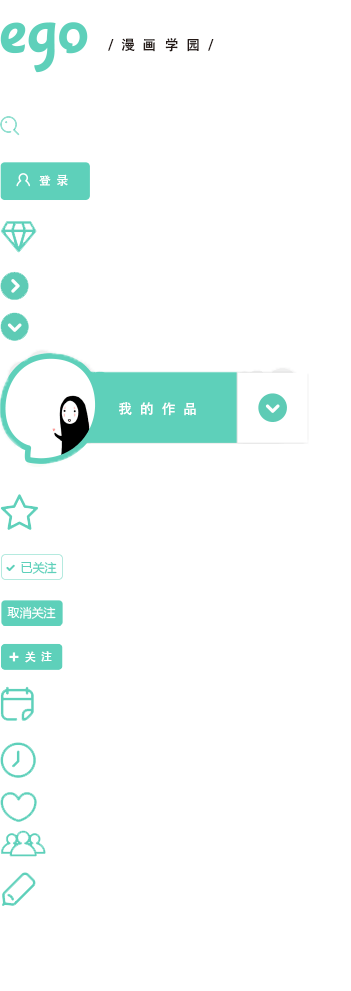
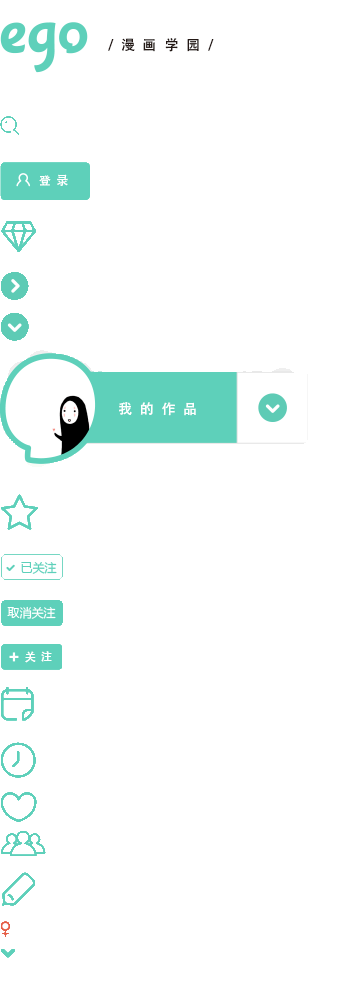
构建顶栏

diff --git a/public/page/index.js b/public/page/index.js
@@ -57,3 +57,83 @@
 
     App.Tabs=Tabs;
 }(window.App))
+
+
+/**
+ * 构建搜索框
+ */
+(function(App){
+    /**
+     * 
+     * @param {Object} container  表单节点
+     */
+    function Search(container) {
+        this.nForm=container;
+        this.nKeyword=this.nForm.getElementsByTagName('input')[0];
+        this.init();
+    }
+    //初始化
+    Search.prototype.init=function(){
+        this.nForm.addEventListener('submit',this.search.bind(this));
+    }
+
+    //搜索功能
+    Search.prototype.search=function(event){
+        var value=this.nKeyword.value;
+        if(value){
+            value.replace(/^\s|\s$/,'');
+            return true;
+        }else{
+            return false;
+        }
+    }
+
+    App.Search=Search;
+}(window.App));
+
+/**
+ * 构建登录与注册
+ */
+(function(App){
+    function Guest(){
+        this.nLogin=document.getElementById('login');
+        this.nRegister=document.getElementById('register');
+
+        this.nLogin.addEventListener('click',function(){
+            //弹出登录弹窗
+
+        }.bind(this));
+        this.nRegister.addEventListener('click',function(){
+            //弹出注册弹窗
+
+        }.bind(this));
+    }
+
+    App.Guest=Guest;
+}(window.App));
+
+
+/**
+ * 构建顶栏
+ */
+(function(App){
+    var nav={
+        init:function(options){
+            options=options||{};
+            this.loginCallback=options.login;
+            this.hdtab=new App.Tabs({
+                container:_.$("hdtabs"),
+                index:this.getTabIndex()
+            });
+            this.search=new App.Search(_.$("search"));
+            this.guest=new App.Guest();
+            //绑定登录，注册，登出事件
+            this.initLoginStatus();
+        },
+        getTabIndex:function(){},
+        initLoginStatus:function(){},
+        initUserInfo:function(data){}
+    }
+
+    App.nav=nav;
+}(window.App));

diff --git a/public/html/index.html b/public/html/index.html
@@ -17,7 +17,7 @@
             <a href="/index" class="u-logo" target="blank"><img class="logo"></a>
             
             <!-- 标签 -->
-            <div class="m-tabs">
+            <div class="m-tabs" id="hdtabs">
                 <ul class="f-cb">
                     <li class="z-active"><a href="/index">首页</a></li>
                     <li><a  href="/works">作品</a></li>
@@ -28,6 +28,36 @@
                 <!-- <div class="tabs_track">
                     <div class="tabs_thumb" style="width:68px;left:0;"></div>
                 </div> -->
+            </div>
+
+            <!-- 搜索框 -->
+            <form action="/search" id="search" method="GET">
+                <div class="u-search">
+                    <input type="text" id="keyword" name="keyword" placeholder="输入搜索内容">
+                    <button class="icon-btn" type="submit"></button>
+                </div>
+            </form>
+
+            <!-- 登录注册按钮 -->
+            <div class="m-guest" id="guest">
+                <button class="u-btn u-btn-primary u-btn-icon" id="login"><i class="icon-user"></i>登录</button>
+                <button class="u-btn u-btn-link" id="register">注册</button>
+            </div>
+
+            <!-- 用户信息 -->
+            <div class="m-user" id="userdropdown">
+                <div class="user_info">
+                    <img class="user_avatar" src="../res/images/avater.png" alt="头像">
+                    <span class="user_name" id="name"></span>
+                    <i class="sex"></i>
+                    <i class="down"></i>
+                </div>
+                <ul class="user_list">
+                    <li>个人中心</li>
+                    <li>信息</li>
+                    <li>设置</li>
+                    <li id="logout">退出账号</li>
+                </ul>
             </div>
         </div>
     </div>

diff --git a/public/common/base.css b/public/common/base.css
@@ -1,0 +1,48 @@
+/* reset */
+html,body,h1,h2,h3,h4,h5,h6,div,dl,dt,dd,ul,ol,li,p,blockquote,pre,hr,figure,table,caption,th,td,form,fieldset,legend,input,button,textarea,menu{margin:0;padding:0;}
+header,footer,section,article,aside,nav,hgroup,address,figure,figcaption,menu,details{display:block;}
+table{border-collapse:collapse;border-spacing:0;}
+caption,th{text-align:left;font-weight:normal;}
+html,body,fieldset,img,iframe,abbr{border:0;}
+i,cite,em,var,address,dfn{font-style:normal;}
+[hidefocus],summary{outline:0;}
+li{list-style:none;}
+h1,h2,h3,h4,h5,h6,small{font-size:100%;}
+sup,sub{font-size:83%;}
+pre,code,kbd,samp{font-family:inherit;}
+q:before,q:after{content:none;}
+textarea{overflow:auto;resize:none;}
+label,summary{cursor:default;}
+a,button{cursor:pointer;}
+h1,h2,h3,h4,h5,h6,em,strong,b{font-weight:bold;}
+del,ins,u,s,a,a:hover{text-decoration:none;}
+body,textarea,input,button,select,keygen,legend{font:12px/1.14 arial,\5b8b\4f53;color:#333;outline:0;}
+body{background:#fff;}
+a,a:hover{color:#333;}
+
+/* 清除浮动 */
+.f-cb:after,.f-cbli li:after{display:block;clear:both;visibility:hidden;height:0;overflow:hidden;content:".";}
+.f-cb,.f-cbli li{zoom:1;}
+
+/* 基类 */
+.u-btn{
+    display: inline-block;
+    width: 90px;
+    text-align: center;
+    height: 38px;
+    line-height: 38px;
+    text-decoration: none;
+    border-radius: 3px;
+    border:1px solid #5ed0ba;
+}
+
+.u-btn-primary{
+    color: #fff;
+    background-color: #5ed0ba;
+}
+
+.u-btn-link{
+    color: #5ed0ba;
+    background-color: #fff;
+    border: 1px solid #fff;
+}

diff --git a/public/page/index.css b/public/page/index.css
@@ -6,10 +6,11 @@
 
 .g-header .m-header{
     width: 1080px;
+    vertical-align: middle;
 }
 
 .g-header .u-logo .logo{
-    background: url(../res/icon.png) 0 0;
+    background: url(../res/icon.png) no-repeat 0 0;
 }
 
 /* tabs */
@@ -23,6 +24,10 @@
     padding: 13px 20px;
     font-size: 14px;
     cursor: pointer;
+}
+
+.m-tabs .z-active{
+    color: #5ed0ba;
 }
 
 /* 滑动条 */
@@ -42,6 +47,56 @@
     transition: ease 0.1s;
 }
 
+
+/* 搜索框 */
+.g-header .search{
+    position: relative;
+    box-sizing: border-box;
+    width: 200px;
+    height: 40px;
+    border: 2px solid #5ed0ba;
+    border-radius: 2px;
+}
+
+.search .u-btn{
+    position: absolute;
+    right: 5px;
+    width: 24px;
+    height: 24px;
+    background: url(../res/icon.png) no-repeat 0 -30px;
+}
+
+/* guest */
+.g-header .m-guest{
+    display:inline-block;
+    height: 40px;
+}
+
+/* 用户信息 */
+.g-header .m-user{
+    display: none;
+}
+
+.m-user .user_name{
+    max-width: 64px;
+    overflow: hidden;
+    white-space: nowrap;
+    text-overflow: ellipsis;
+}
+
+.m-user .user_list{
+    display: none;
+    position: absolute;
+    width: 100%;
+}
+
+.m-user:hover .user_list{
+    display:block;
+}
+
+.m-user:hover .user_info{
+    border-color: #ddd;
+}
 
 /* banner */
 .g-banner{

diff --git a/public/common/js/base.js b/public/common/js/base.js
@@ -24,6 +24,22 @@
 
 
 /**
+ * 选取元素节点
+ */
+(function(_){
+    /**
+     * 
+     * @param   {String} id 元素的id名 
+     * @returns {Object}  返回元素对象
+     */
+    function $(id) {
+        return document.getElementById(id);
+    }
+
+    _.$=$;
+}(window._));
+
+/**
  * 添加类名
  * 
  * @param   {Object} el 选中的元素
